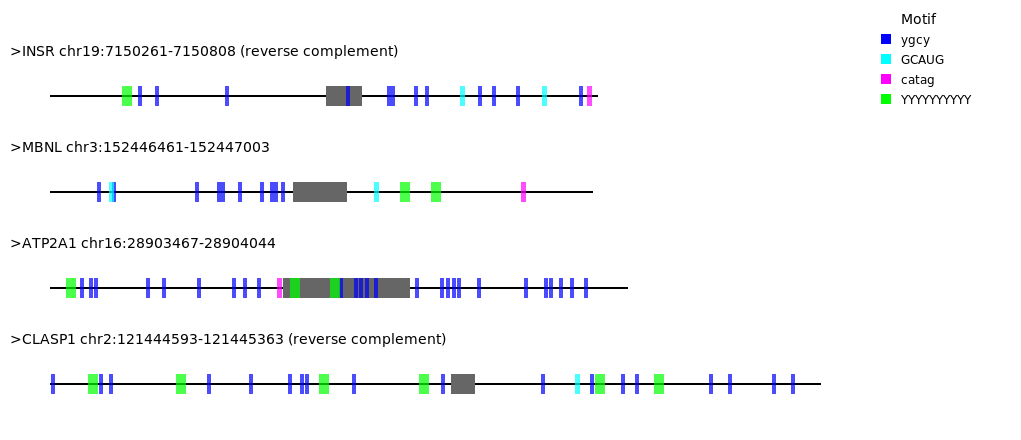
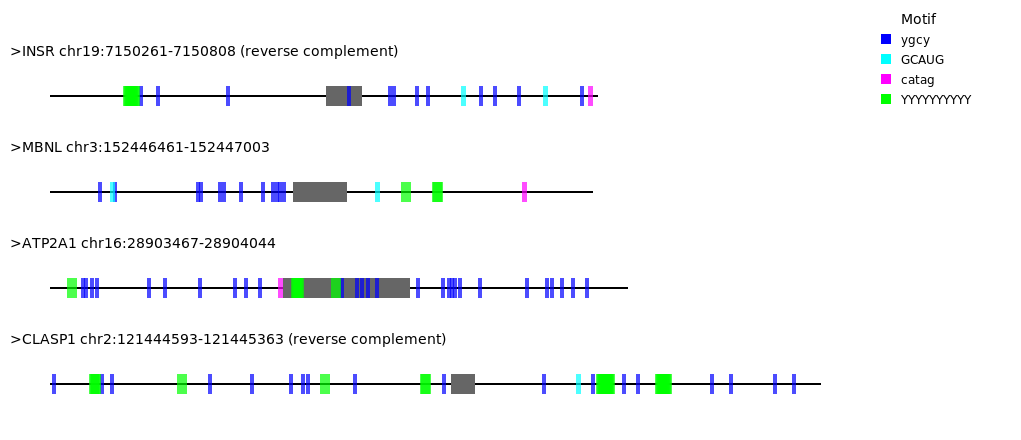
edited code to deal with the same motif overlapping

diff --git a/motif-mark-oop.py b/motif-mark-oop.py
@@ -56,10 +56,10 @@ class Sequence:
         regex_motif = ''
         for base in motif.upper():
             regex_motif += iupac_DNA.get(base, base)
-        motif_pos = []
-        pattern = re.compile(regex_motif, re.IGNORECASE)
-        for match in pattern.finditer(seq):
-            motif_pos.append(match.start())
+        motif_pos = set()
+        look = re.compile(r'(?={})'.format(regex_motif), re.IGNORECASE)
+        for m in look.finditer(seq):
+            motif_pos.add(m.start()+1)
         return motif_pos  
     def get_introns(self, seq):
         """
@@ -208,8 +208,11 @@ with open("oneline.fasta", "r") as fasta:
             for motif_index, motif in enumerate(motif_list):
                 motif_color = get_motif_color(motif_index)
                 motif_locations = seq_obj.motif_search(nucl_seq, motif)
-                motif_len = len(motif)
+                #print(f"gene: {header}, motif: {motif}, locations: {motif_locations}")  
+                motif_len = len(motif)  
                 for motif_location in motif_locations:
+                    # if motif == "YYYYYYYYYY":
+                    #     print(f"Gene: {header}, Location: {motif_location}")  # Print motif location for debugging
                     motif_obj = Motif(motif, motif_location, motif_color)
                     motif_obj.plot_motif(context, gene_num)
     seq_obj.plot_legend(context, motif_list)
